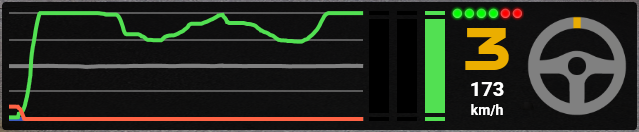
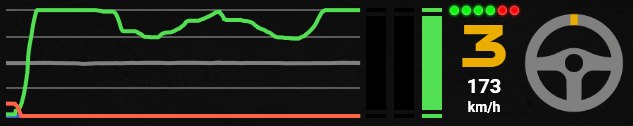
Updated telemetry image. Re-ordered sections.

diff --git a/README.md b/README.md
@@ -37,9 +37,17 @@ To see them in action, click the image above for a video demo.
 
 See the [Installation Guide](https://github.com/fixfactory/bo2-official-overlays/wiki/Installation-Guide) for a detailed walkthrough on how to install and setup the overlays the first time.
 
+## Inputs Telemetry
+
+This overlay shows the current driver inputs in real-time. A graph with **Pedal Input Traces** shows the recent inputs over time. This is useful to understand bad habits. It is modular meaning you can hide parts you don't need.
+
+<p align="center">
+  <img src="Images/Screenshots/Inputs.png" width="500"/>
+</p>
+
 ## Multi-Class Standings
 
-Shows the live **Leaderboard** for up to 4 car classes. Optional columns: **Car Logo**, **Gap**, **Best Lap Time**, **Last Lap Time**, and **Delta**. See the **benofficial2 plugin** page (in the left menu) for all options.
+This overlay shows the live **Leaderboard** for up to 4 car classes. Optional columns: **Car Logo**, **Gap**, **Best Lap Time**, **Last Lap Time**, and **Delta**. See the **benofficial2 plugin** page (in the left menu) for all options.
 
 <p align="center">
   <img src="Images/Screenshots/Standings-IR18.png" width="450"/>
@@ -49,7 +57,7 @@ Shows the live **Leaderboard** for up to 4 car classes. Optional columns: **Car 
 
 ## Relative
 
-Shows the nearby drivers **Ahead & Behind** on-track. This includes cars from every car class. In blue are cars that are a lap down and in red are those a lap ahead. The **Out Lap Indicator** shows when a car is on an out-lap. The last column shows the **Gap** in seconds to that car. The header shows the **Strength of Field** and **Incident Count**. The temperature is the **Track Temperature** and the time is your computer's **Local Time**.
+This overlay shows the nearby drivers **Ahead & Behind** on-track. This includes cars from every car class. In blue are cars that are a lap down and in red are those a lap ahead. The **Out Lap Indicator** shows when a car is on an out-lap. The last column shows the **Gap** in seconds to that car. The header shows the **Strength of Field** and **Incident Count**. The temperature is the **Track Temperature** and the time is your computer's **Local Time**.
 
 <p align="center">
   <img src="Images/Screenshots/Relative-LMP3.png" width="350"/>
@@ -57,9 +65,25 @@ Shows the nearby drivers **Ahead & Behind** on-track. This includes cars from ev
 
 There's an optional footer (not enabled by default) that shows additional session information typically seen in the Standings header.
 
+## Spotter
+
+This overlay shows orange bars when side-by-side with another car. This complements your audio spotter as it will show up the moment your spotter starts talking. The size of the orange bar gives your an idea of the amount of car overlap and how fast you are passing them so you can time the perfect move. 
+
+<p align="center">
+  <img src="Images/Screenshots/Spotter.png" width="400"/>
+</p>
+
+Also comes with a **Rejoin Helper** that will show up when stopped or off-track, telling you how safe it is to rejoin by giving you the gap to the next incoming car. Quicker than looking at Relatives.
+
+<p align="center">
+  <img src="Images/Screenshots/RejoinHelper.png" width="400"/>
+</p>
+
+Designed to be placed over the virtual mirror, but can be placed wherever you want it to be.
+
 ## Track Map
 
-Shows car positions on a map. Supports multi-class colors.
+This overlay shows car positions on a map. Supports multi-class colors.
 
 <p align="center">
   <img src="Images/Screenshots/Map-Multi.png" width="200"/>
@@ -67,35 +91,27 @@ Shows car positions on a map. Supports multi-class colors.
 
 ## Delta Bar
 
-Gives you feedback on your pace. The **Delta Time** (center) and **Delta Speed** (right) are relative to your session's best clean lap. In qualifying, they are relative to your all-time best lap. On the left, in a race, you get **Gap** and last lap **Interval** information about your nearest competitor ahead and behind. Useful to know if your are improving relative to them.
+This overlay gives you feedback on your pace. The **Delta Time** (center) and **Delta Speed** (right) are relative to your session's best clean lap. In qualifying, they are relative to your all-time best lap. On the left, in a race, you get **Gap** and last lap **Interval** information about your nearest competitor ahead and behind. Useful to know if your are improving relative to them.
 
 <p align="center">
   <img src="Images/Screenshots/Delta-Best.png" width="400"/>
 </p>
 
+This delta bar can help you improve your lap times by giving you on-the-spot feedback in a corner. Because the **Delta Speed** field is big enough, you'll be able to see it change color while keeping your eyes on the track. So you'll know instantly if your mid-corner speed was faster/slower for example. You'll learn quickly what works and what doesn't.
+
 <p align="center">
   <img src="Images/Screenshots/Delta-White.png" width="400"/>
 </p>
+
+*Note: if the delta bar doesn't show immediately, it is because it doesn't have a clean reference lap to compare against yet. It will show up once you complete a full lap without incident.*
 
 <p align="center">
   <img src="Images/Screenshots/Delta-Red.png" width="400"/>
 </p>
 
-This delta bar can help you improve your lap times by giving you on-the-spot feedback in a corner. Because the **Delta Speed** field is big enough, you'll be able to see it change color while keeping your eyes on the track. So you'll know instantly if your mid-corner speed was faster/slower for example. You'll learn quickly what works and what doesn't.
-
-*Note: if the delta bar doesn't show immediately, it is because it doesn't have a clean reference lap to compare against yet. It will show up once you complete a full lap without incident.*
-
-## Inputs Telemetry
-
-Shows the current **Gear**, **Speed** and a graph of **Pedal Input Traces** over time. This is useful to understand bad habits. This overlay is modular meaning you can hide parts you don't need as well as adjusting the width of the traces (see configuration options in benofficial2 plugin).
-
-<p align="center">
-  <img src="Images/Screenshots/Inputs.png" width="500"/>
-</p>
-
 ## Highlighted Driver
 
-Shows information about the currently spectated driver when spectating. Can optionally be shown when in-car as well.
+This overlay shows information about the currently spectated driver when spectating. Can optionally be shown when in-car as well.
 
 <p align="center">
   <img src="Images/Screenshots/Highlighted-Driver.png" width="400"/>
@@ -103,14 +119,10 @@ Shows information about the currently spectated driver when spectating. Can opti
 
 ## Dash Overlay
 
-Useful when the in-game steering wheel is not visible in your FOV. This overlay shows various in-car settings and statuses. The green boxes typically show statuses about "going faster" such as **DRS**, **ERS**, **P2P**, **OT** (Super Formula), and **Fuel Mix**. 
+This overlay shows various in-car settings and statuses. Useful when the in-game steering wheel is not visible in your FOV. The green boxes typically show statuses about "going faster" such as **DRS**, **ERS**, **P2P**, **OT** (Super Formula), and **Fuel Mix**. 
 
 <p align="center">
   <img src="Images/Screenshots/Dash-ERS-Green.png" width="350"/>
-</p>
-
-<p align="center">
-  <img src="Images/Screenshots/Dash-ERS-Red.png" width="350"/>
 </p>
 
 The yellow boxes are for **Fuel** and **Laps Remaining Estimate**. A **Pit Indicator** will pop up when it's time to pit. The orange boxes are for various in-car settings such as **Entry Diff**. And finally the red boxes are for **Brake Bias** and **ABS** adjustments.
@@ -121,11 +133,11 @@ The yellow boxes are for **Fuel** and **Laps Remaining Estimate**. A **Pit Indic
 
 ## Setup Cover
 
-For streamers, shows an animation that hides your car setup values when entering the garage.
+For streamers, this overlay shows an animation that hides your car setup values when entering the garage.
 
 ## Twitch Chat
 
-For streamers, shows your chat on-screen so you can keep up with chat. Powered by [ChatIS](https://chatis.is2511.com/).
+For streamers, this overlay shows your chat on-screen so you can keep up with chat. Powered by [ChatIS](https://chatis.is2511.com/).
 
 <p align="center">
   <img src="Images/Screenshots/Twitch-Chat.png" width="500"/>
@@ -141,25 +153,9 @@ There's some randomness to the clutch bitepoint in iRacing, so make sure to expe
   <img src="Images/Screenshots/Launch-Assist.png" width="80"/>
 </p>
 
-## Spotter
+## Setup Fuel Calculator
 
-Shows orange bars when side-by-side with another car. This complements your audio spotter as it will show up the moment your spotter starts talking. The size of the orange bar gives your an idea of the amount of car overlap and how fast you are passing them so you can time the perfect move. 
-
-<p align="center">
-  <img src="Images/Screenshots/Spotter.png" width="400"/>
-</p>
-
-Also comes with a **Rejoin Helper** that will show up when stopped or off-track, telling you how safe it is to rejoin by giving you the gap to the next incoming car. Quicker than looking at Relatives.
-
-<p align="center">
-  <img src="Images/Screenshots/RejoinHelper.png" width="400"/>
-</p>
-
-Designed to be placed over the virtual mirror, but can be placed wherever you want it to be.
-
-## Fuel Calculator
-
-Shows up only when in the garage / setup screen and tells you how much fuel is needed to start the race. Supports heat races and will determine if the race is limited by time or laps when both are specified. Useful for leagues that have a custom race length.
+This overlay shows up only when in the garage / setup screen and tells you how much fuel is needed to start the race. Supports heat races and will determine if the race is limited by time or laps when both are specified. Useful for leagues that have a custom race length.
 
 <p align="center">
   <img src="Images/Screenshots/FuelCalc-2.png" width="350"/>
